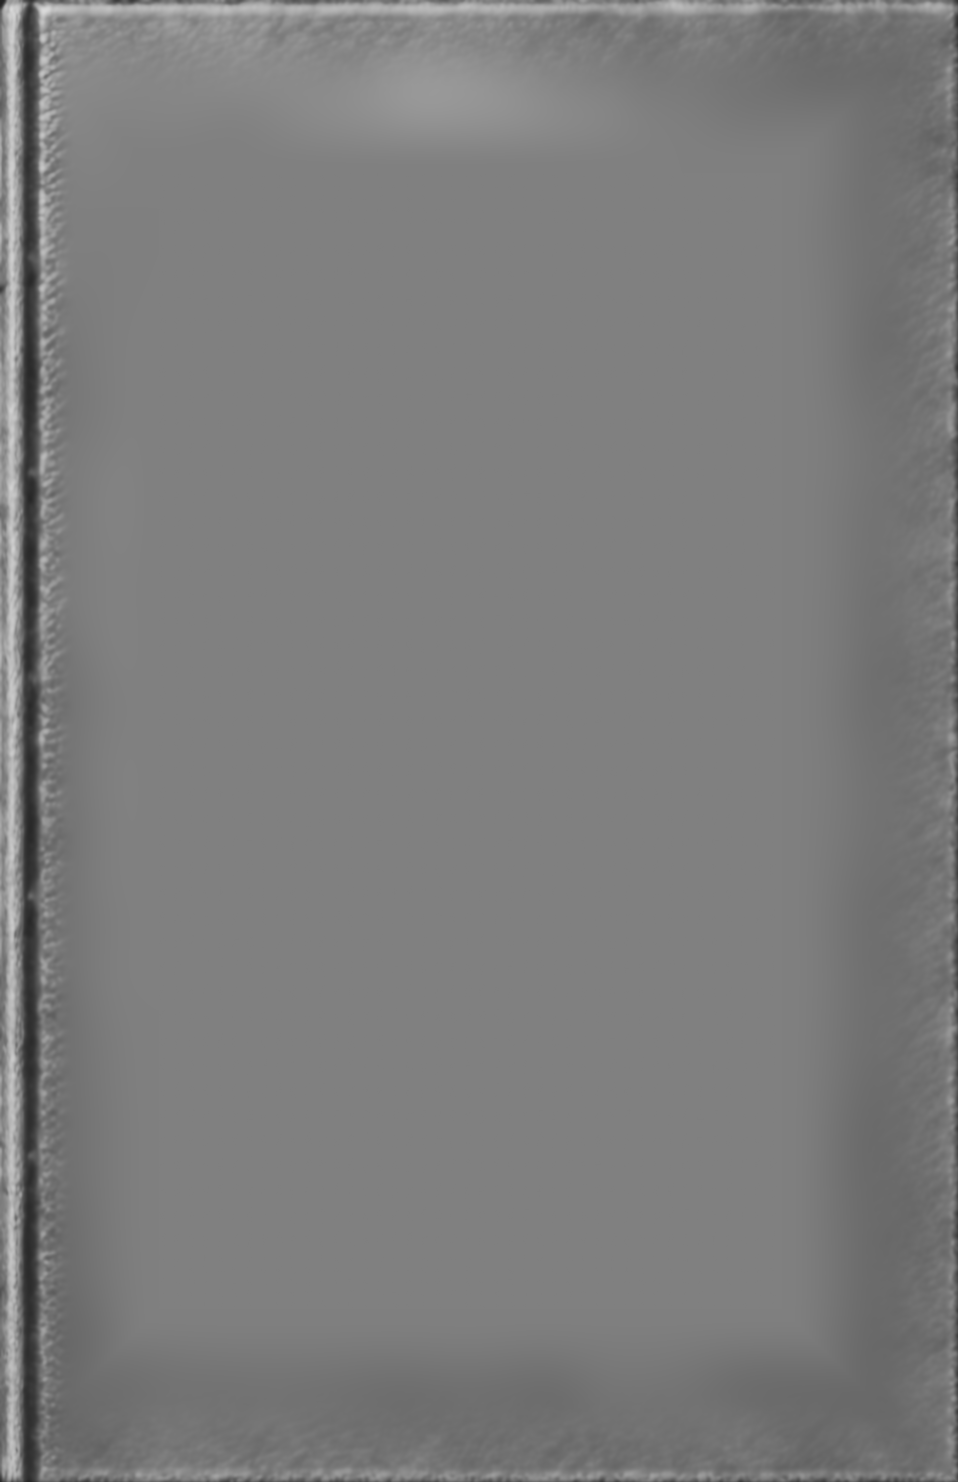
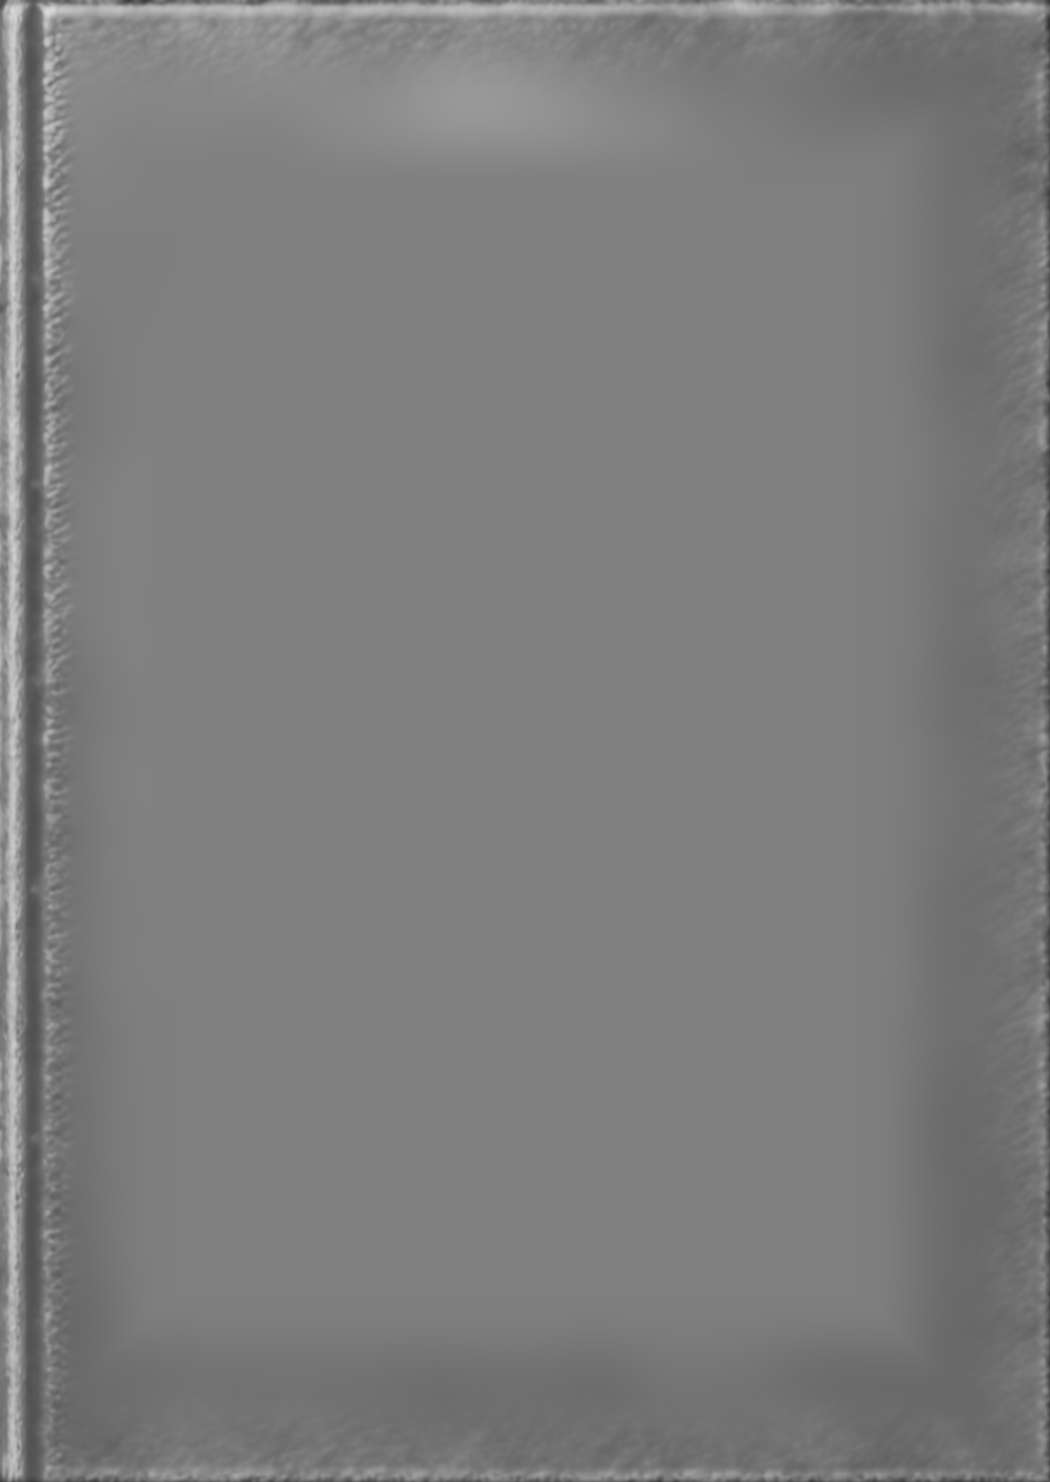
Читалня: кориците с пропорцията на истинската книга (525×741) — без изрязване на „Разговори…“; рамката вдясно от гръбчето; по-мека сянка на прегъвката; билд 2186
Claude-Session: https://claude.ai/code/session_016Ea8YqZvhGDExve2uMf5Am

Changed region(s): [[0.0, 0.0, 0.0605, 1.0], [0.999, 0.6518, 1.0, 0.7139], [0.999, 0.2483, 1.0, 0.2794]]

diff --git a/lib/cover_light.dart b/lib/cover_light.dart
@@ -21,6 +21,10 @@ import 'package:flutter/services.dart' show rootBundle;
 /// `kCorner` в shaders/cover_light.frag; менят се заедно.
 const double kCoverCornerRadius = 0.012;
 
+/// Пропорцията на кориците в „Читалня" — на истинската книга „Разговори…"
+/// (594×839). ⚠ Картата book1.png е за нея; кориците от 03_covers.py — също.
+const double kChitalnyaCoverAspect = 525 / 741;
+
 /// Картите на светлината в пакета.
 class CoverLight {
   static const book1 = 'assets/cover_light/book1.png';

diff --git a/lib/chitalnya_screen.dart b/lib/chitalnya_screen.dart
@@ -254,6 +254,7 @@ class _ChitalnyaScreenState extends State<ChitalnyaScreen>
       onOpen: _open,
       flowKey: _flow,
       cornerRadius: kCoverCornerRadius,
+      aspect: kChitalnyaCoverAspect,
       drawer: const AppDrawer(),
       infoBuilder: (_, _) => _info(),
       landscapeLabel: (i) => kChitalnyaBooks[i].title,

diff --git a/tools/chitalnya/scripts/03_covers.py b/tools/chitalnya/scripts/03_covers.py
@@ -3,8 +3,13 @@
 
     python3 03_covers.py        # ПРЕДИ 02_build_epubs.py — той ги вгражда
 
-⚠ Примерни, до истинските (потребителят ще ги подмени). Размерът е като на
-томовете в „Месецослов" — 479×741 — тъй че пропорцията в Cover Flow е същата.
+⚠ Примерни, до истинските (потребителят ще ги подмени). Размерът 525×741 е
+пропорцията на „Разговори…" (истинската книга, 594×839) — тестето в
+„Читалня" е с нея (`kChitalnyaCoverAspect`), за да не се изрязва корицата.
+
+Отляво стои гръбчето с прегъвката от картата на светлината (05_cover_light.py)
+— `SPINE` пиксела. Рамката и всичко в нея се нареждат в полето ВДЯСНО от него,
+за да е симетрично спрямо видимата плоскост, а не спрямо цялата ширина.
 Подмяна: сложи свой .jpg със същото име и пусни наново 02_build_epubs.py.
 """
 import random
@@ -19,7 +24,9 @@ FONTS = PROJ / 'assets' / 'fonts'
 CROSS_SVG = PROJ / 'assets' / 'icons' / 'cross.svg'
 SS = 3          # свръхдискретизация: рисува се три пъти по-едро и се смалява
 OUT = PROJ / 'assets' / 'chitalnya_covers'
-W, H = 479, 741
+W, H = 525, 741
+SPINE = 12      # място за гръбчето отляво (в пиксели на корицата)
+CX = (SPINE + W) / 2   # средата на плоскостта вдясно от гръбчето
 GOLD = (201, 168, 96)
 
 BOOKS = [
@@ -99,13 +106,13 @@ def cover(code, lines, author, base):
     d = ImageDraw.Draw(big)
     # Двойна рамка.
     for m, wd in ((22, 3), (32, 1)):
-        d.rectangle([m * SS, m * SS, (W - m) * SS, (H - m) * SS],
+        d.rectangle([(SPINE + m) * SS, m * SS, (W - m) * SS, (H - m) * SS],
                     outline=GOLD, width=wd * SS)
     # Кръстът — по-едър от досегашния, в горната трета.
     cm = cross_mask(118 * SS)
-    emboss(big, cm, ((W * SS - cm.width) // 2, 62 * SS), GOLD)
+    emboss(big, cm, (int(CX * SS - cm.width / 2), 62 * SS), GOLD)
     # Заглавието — по-едро; кегелът се свива само ако ред не се побира.
-    inner = (W - 2 * 48) * SS
+    inner = (W - SPINE - 2 * 48) * SS
     title = fit(d, lines, FONTS / 'Tamburin Modern.ttf', 60 * SS, inner)
     step = int(title.size * 1.28)
     block = step * (len(lines) - 1) + title.size
@@ -118,7 +125,7 @@ def cover(code, lines, author, base):
     y0 = y
     for ln in lines:
         w = d.textlength(ln, font=title)
-        sd.text(((W * SS - w) / 2 + 2 * SS, y + 3 * SS), ln, font=title,
+        sd.text((CX * SS - w / 2 + 2 * SS, y + 3 * SS), ln, font=title,
                 fill=(0, 0, 0, 140))
         y += step
     big.alpha_composite(shade.filter(ImageFilter.GaussianBlur(2 * SS)))
@@ -126,11 +133,11 @@ def cover(code, lines, author, base):
     y = y0
     for ln in lines:
         w = d.textlength(ln, font=title)
-        d.text(((W * SS - w) / 2, y), ln, font=title, fill=GOLD + (255,))
+        d.text((CX * SS - w / 2, y), ln, font=title, fill=GOLD + (255,))
         y += step
     # Орнаментална черта: по-къса от реда, с ромбче по средата.
     ly = y - step + title.size + 34 * SS
-    cx = W * SS // 2
+    cx = int(CX * SS)
     d.line([cx - 78 * SS, ly, cx - 10 * SS, ly], fill=GOLD, width=2 * SS)
     d.line([cx + 10 * SS, ly, cx + 78 * SS, ly], fill=GOLD, width=2 * SS)
     r = 5 * SS
@@ -138,7 +145,7 @@ def cover(code, lines, author, base):
     # Авторът — по-едър курсив над долния ръб на рамката.
     au = fit(d, [author], FONTS / 'CharisSIL-Italic.ttf', 30 * SS, inner)
     w = d.textlength(author, font=au)
-    d.text(((W * SS - w) / 2, (H - 112) * SS), author, font=au, fill=(230, 214, 176))
+    d.text((CX * SS - w / 2, (H - 112) * SS), author, font=au, fill=(230, 214, 176))
     img = big.convert('RGB').resize((W, H), Image.LANCZOS)
     OUT.mkdir(parents=True, exist_ok=True)
     img.save(OUT / f'{code}.jpg', quality=90)

diff --git a/tools/chitalnya/scripts/04_razgovori.py b/tools/chitalnya/scripts/04_razgovori.py
@@ -769,9 +769,9 @@ def main():
         for n, data in pdfs.items():
             z.writestr(f'OEBPS/pdf/{n}', data, compress_type=zipfile.ZIP_STORED)
     # Корицата — предната корица на книгата (image1), с пропорцията на
-    # останалите (479×741): изрязва се по средата, не се разтяга.
+    # тестето (525×741): изрязва се по средата, не се разтяга.
     front = Image.open(io.BytesIO(doc.z.read('word/media/image1.jpg'))).convert('RGB')
-    W, H = 479, 741
+    W, H = 525, 741
     s = max(W / front.width, H / front.height)
     front = front.resize((round(front.width * s), round(front.height * s)), Image.LANCZOS)
     l, t = (front.width - W) // 2, (front.height - H) // 2

diff --git a/CLAUDE.md b/CLAUDE.md
@@ -133,8 +133,8 @@ bible_reader) е `kWordChar`. (2) `_locateSentences` (book_reader.dart)
 
 ## Състоянието към 13.10.2026 — прочети първо
 
-Последният релийз е `Правосл._календар.apk/.zip`, **билд 2185** (21.10.2026, кориците в „Читалня“ — нова маска от снимка на истинска кожена корица, заоблени ъгли; преди него 2184 — смяната на раздел от менюто без премигване с календара — `pushOverCalendar` в app_drawer.dart; преди него 2183 — кориците в „Читалня“ по-светли; преди него 2182 — кориците с обем и отблясъци — шейдър, `lib/cover_light.dart`; преди него 2181 — надписът под илюстрацията вече не „прозвучава“ — прескачането изпреварва; преди него 2180 — размерът на свалената глава е на свалия вариант; преди него 2179 — „Музика в края“ преместена в Настройки → „Звук“; преди него 2178 — „HQ“ до слушалките на записите във високо качество; преди него 2177 — звукът в два варианта — „Икономично“ Opus 20 kbps по подразбиране / „Високо“; преди него 2176 — библейските връзки у Дебольски, ~80 нови/поправени; преди него 2175 — описанието на „Разговори…“ — „Православни беседи.“; преди него 2174 — място под „предишно/следващо“ над копчето на звука — `kFooterBottomGapWithFab`; преди него 2173 — маркирането при четене на глас; преди него 2172 — връзката Мат. 10:38, 16:24; преди него 2171 — извори на „Разговори…“; преди него 2170 — надписите не се четат, житието на св. Йоан Рилски
-със звук, екранът „Звук“ (с пускане), #звук; следващият — 2186 или по-голям). ⚠ 2160 НЕ Е ЗА ПОЛЗВАНЕ — в него „Разговори…“ е
+Последният релийз е `Правосл._календар.apk/.zip`, **билд 2186** (21.10.2026, кориците в „Читалня“ с пропорцията на истинската книга — 525×741, без изрязване; рамката вдясно от гръбчето; по-мека сянка на прегъвката; преди него 2185 — нова маска от снимка на истинска кожена корица, заоблени ъгли; преди него 2184 — смяната на раздел от менюто без премигване с календара — `pushOverCalendar` в app_drawer.dart; преди него 2183 — кориците в „Читалня“ по-светли; преди него 2182 — кориците с обем и отблясъци — шейдър, `lib/cover_light.dart`; преди него 2181 — надписът под илюстрацията вече не „прозвучава“ — прескачането изпреварва; преди него 2180 — размерът на свалената глава е на свалия вариант; преди него 2179 — „Музика в края“ преместена в Настройки → „Звук“; преди него 2178 — „HQ“ до слушалките на записите във високо качество; преди него 2177 — звукът в два варианта — „Икономично“ Opus 20 kbps по подразбиране / „Високо“; преди него 2176 — библейските връзки у Дебольски, ~80 нови/поправени; преди него 2175 — описанието на „Разговори…“ — „Православни беседи.“; преди него 2174 — място под „предишно/следващо“ над копчето на звука — `kFooterBottomGapWithFab`; преди него 2173 — маркирането при четене на глас; преди него 2172 — връзката Мат. 10:38, 16:24; преди него 2171 — извори на „Разговори…“; преди него 2170 — надписите не се четат, житието на св. Йоан Рилски
+със звук, екранът „Звук“ (с пускане), #звук; следващият — 2187 или по-голям). ⚠ 2160 НЕ Е ЗА ПОЛЗВАНЕ — в него „Разговори…“ е
 само с последната беседа (редът за съдържанието изпадна от цикъла при BOOK_FIX;
 04_razgovori.py вече спира, ако записите не са колкото главите). Всичко е комитнато и пушнато.
 ⚠ След 2153 (комитнато, не билднато): цветът на етикета с MB в съдържанието.
@@ -7506,7 +7506,7 @@ ImageProvider-а, прекарва картинката веднъж през
 `shaders/cover_light.frag` (корица × карта на светлината) и подава готовата
 — така Cover Flow, отражението и летящата корица я получават еднакво, а
 всяка бъдеща корица — без подготовка. Грешка в шейдъра → чистата корица.
-- Картата `assets/cover_light/book1.png` (958×1482, коефициент/2) прави
+- Картата `assets/cover_light/book1.png` (1050×1482, коефициент/2) прави
   `tools/chitalnya/scripts/05_cover_light.py` от СНИМКА НА ИСТИНСКА КОЖЕНА
   КОРИЦА (21.10.2026, вариант „E2“ на автора; изворът
   `tools/chitalnya/input/cover_leather.png`, ⚠ input/ не е в git). Стъпките
@@ -7532,7 +7532,19 @@ ImageProvider-а, прекарва картинката веднъж през
   (`kCorner`), а `CoverFlow.cornerRadius` (`kCoverCornerRadius` в
   cover_light.dart) заобля сянката и потъмняването на страничните корици —
   иначе правоъгълната сянка стърчи в ъглите. ⚠ Двете числа се менят заедно.
-- ⚠ Картата е за пропорцията 479×741 (958×1482) — друга я разтяга.
+- ⚠⚠ **ПРОПОРЦИЯТА НА „ЧИТАЛНЯ“ Е 525×741** (22.10.2026,
+  `kChitalnyaCoverAspect` в cover_light.dart), не 479×741 на томовете —
+  истинската корица на „Разговори…“ е 594×839 и при 479 губеше по ~4,5%
+  отляво и отдясно (изглеждаше като изрязана от маската; не беше — режеше
+  `04_razgovori.py`). Картата е 1050×1482; кориците от `03_covers.py` — 525.
+  ⚠ Трите се менят ЗАЕДНО (картата, кориците, константата).
+- **Гръбчето в кориците** — `SPINE` (12 px) в `03_covers.py`: рамката и
+  всичко в нея са центрирани в плоскостта ВДЯСНО от гръбчето с
+  прегъвката от картата.
+- **Сянката на прегъвката е смекчена** — `fold` (0,55) в 05_cover_light.py,
+  плавно до `fold_w` навътре; спореше с рисунката на кориците.
+- След 03_covers.py — `02_build_epubs.py` (корицата е и в .epub-ите; сверено
+  — сменя се само `cover.jpg`). Корицата на „Разговори…“ НЕ е в .epub-а.
 
 ### „Разговори за Божествения промисъл…" — книгата на автора (.docx)
 

diff --git a/История на промените (ChangeLog).md b/История на промените (ChangeLog).md
@@ -10,6 +10,14 @@
 
 ---
 
+## 21.10.2026 (вечерта)
+
+**„Читалня“ — кориците вече не се изрязват.** Кориците в тестето са с
+пропорцията на истинската книга, тъй че корицата на „Разговори…“ се вижда
+цялата, без да се отрязват ивици отляво и отдясно. Рамката на другите
+корици е отместена вдясно от гръбчето, а сянката по прегъвката е
+по-мека.
+
 ## 21.10.2026
 
 **„Читалня“ — още по-истински корици.** Обемът по кориците вече е взет от
